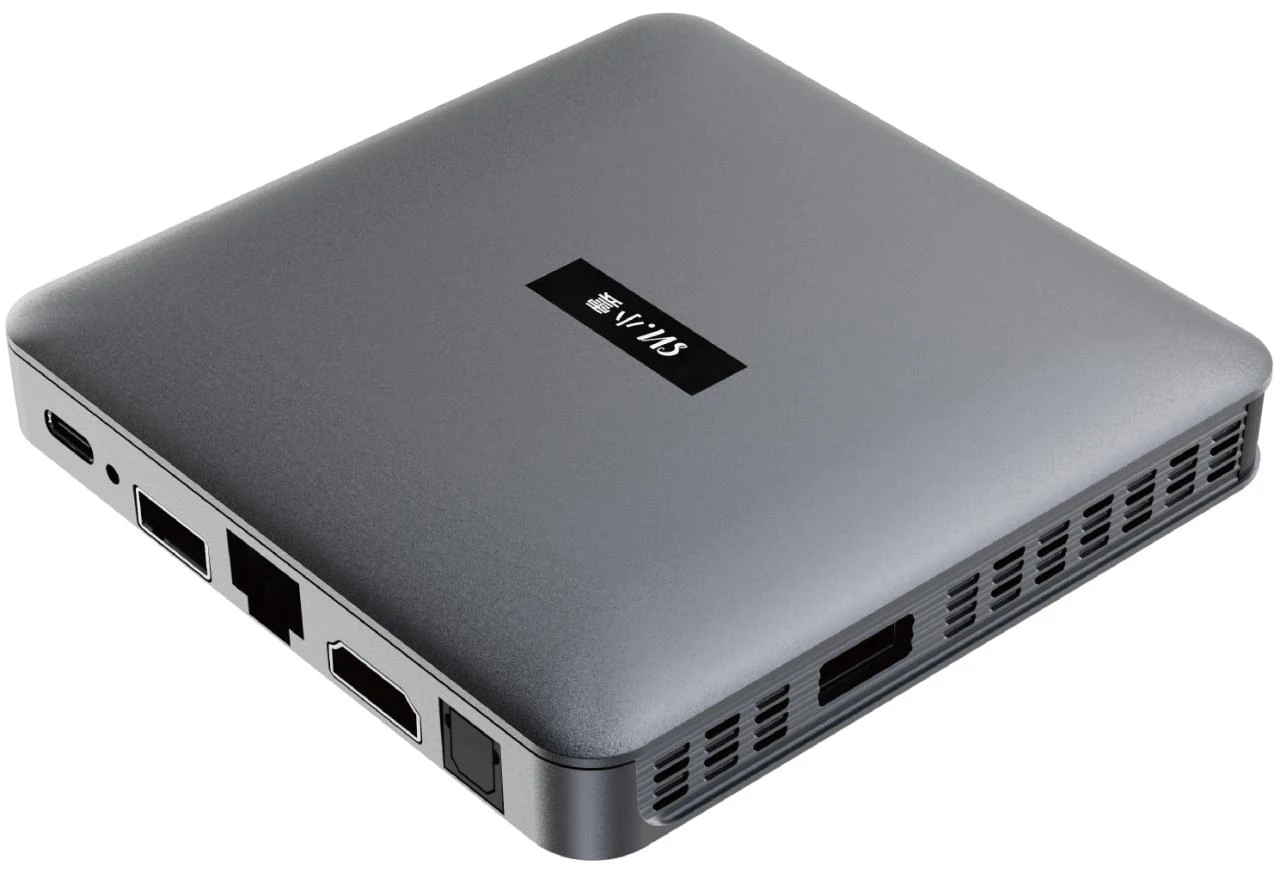
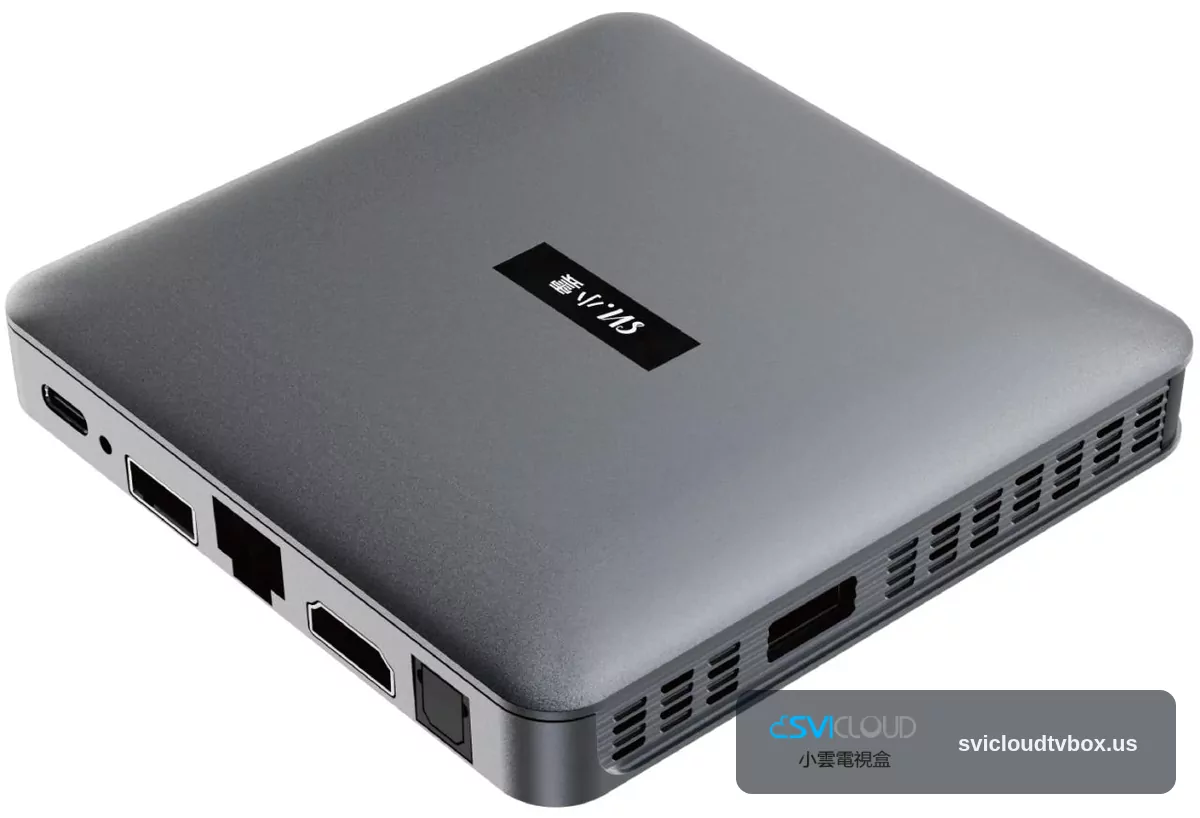
fix(theme): watermark all 15p delivery surfaces

Changed region(s): [[0.5858, 0.8252, 0.9867, 0.978]]

diff --git a/theme/svicloudtvbox-lumen/page-compare.php b/theme/svicloudtvbox-lumen/page-compare.php
@@ -172,7 +172,7 @@ $compare_card_10p_image_html = str_replace('loading="lazy"', 'loading="eager"', 
 $compare_card_10s_image_html = str_replace('loading="lazy"', 'loading="eager"', $compare_card_10s_image_html);
 
 if ($compare_card_15p_image_html === '') {
-    $compare_card_15p_image_html = '<img src="' . esc_url(svic_theme_image_uri('/assets/images/products/svicloud-15p-front.webp')) . '" alt="' . svic_translate_attr('compare.aria.product_alt_15p') . '" loading="eager" decoding="async" />';
+    $compare_card_15p_image_html = '<img src="' . esc_url(svic_theme_image_uri('/assets/images/products/svicloud-15p-primary-ai-watermarked.webp')) . '" alt="' . svic_translate_attr('compare.aria.product_alt_15p') . '" loading="eager" decoding="async" />';
 }
 
 if ($compare_card_10p_image_html === '') {
@@ -246,7 +246,7 @@ $compare_cards = [
 
 $compare_hero_15p_image = function_exists('svic_get_product_image_meta')
     ? svic_get_product_image_meta($hero_product_15p, 0, 'large')
-    : svic_get_theme_image_meta('/assets/images/products/svicloud-15p-front.webp');
+    : svic_get_theme_image_meta('/assets/images/products/svicloud-15p-primary-ai-watermarked.webp');
 $compare_hero_10p_image = function_exists('svic_get_product_image_meta')
     ? svic_get_product_image_meta($hero_product_10p, 0, 'large')
     : svic_get_theme_image_meta('/assets/images/svicloud-hero-product.webp');
@@ -310,7 +310,7 @@ if (!empty($compare_hero_10s_background['url'])) {
         <div class="compare-hero__devices" aria-hidden="true">
           <img
             class="compare-hero__device compare-hero__device--15p"
-            src="<?php echo esc_url($compare_hero_15p_image['url'] ?? svic_theme_image_uri('/assets/images/products/svicloud-15p-front.webp')); ?>"
+            src="<?php echo esc_url($compare_hero_15p_image['url'] ?? svic_theme_image_uri('/assets/images/products/svicloud-15p-primary-ai-watermarked.webp')); ?>"
             alt=""
             loading="eager"
             decoding="async"

diff --git a/theme/svicloudtvbox-lumen/functions.php b/theme/svicloudtvbox-lumen/functions.php
@@ -11,6 +11,24 @@ if (!defined('SVIC_THEME_TEXT_DOMAIN')) {
     define('SVIC_THEME_TEXT_DOMAIN', 'svicloudtvbox-lumen');
 }
 
+if (!function_exists('svic_redirect_legacy_wp_sitemap')) {
+    function svic_redirect_legacy_wp_sitemap(): void {
+        if (!defined('RANK_MATH_VERSION')) {
+            return;
+        }
+
+        $request_path = wp_parse_url((string) ($_SERVER['REQUEST_URI'] ?? ''), PHP_URL_PATH);
+        if ($request_path !== '/wp-sitemap.xml') {
+            return;
+        }
+
+        wp_safe_redirect(home_url('/sitemap_index.xml'), 301, 'SVIC active Rank Math sitemap');
+        exit;
+    }
+
+    add_action('template_redirect', 'svic_redirect_legacy_wp_sitemap', 1);
+}
+
 /**
  * Announcement bar toggle.
  * Set to true to show the out-of-stock (or any) banner across all pages.
@@ -933,7 +951,7 @@ if (!function_exists('svic_static_page_meta_registry')) {
                     'zh' => '比較 US$288 缺貨訂購的小雲 15P（原價 US$379）與 10P+、10S 的硬體、影音支援、價格及銷售狀態。',
                     'zh-cn' => '比较 US$288 缺货订购的小云 15P（原价 US$379）与 10P+、10S 的硬件、影音支持、价格及销售状态。',
                 ],
-                'image'       => '/assets/images/products/svicloud-15p-front.webp',
+                'image'       => '/assets/images/products/svicloud-15p-primary-ai-watermarked.webp',
                 'image_alt'   => [
                     'en' => 'SVICLOUD 15P TV box front view',
                     'zh' => '小雲 15P 電視盒正面',

diff --git a/theme/svicloudtvbox-lumen/woocommerce/single-product.php b/theme/svicloudtvbox-lumen/woocommerce/single-product.php
@@ -81,7 +81,7 @@ while (have_posts()) :
     } elseif (!empty($gallery_entries)) {
         $primary_image_html = '<img class="product-hero-image" src="' . esc_url($gallery_entries[0]['full']) . '" alt="' . esc_attr(get_the_title()) . '" loading="lazy" />';
     } elseif ($is_15p_product) {
-        $primary_image_html = '<img class="product-hero-image" src="' . esc_url(svic_theme_image_uri('/assets/images/products/svicloud-15p-front.webp')) . '" alt="' . esc_attr($localized_product_title) . '" />';
+        $primary_image_html = '<img class="product-hero-image" src="' . esc_url(svic_theme_image_uri('/assets/images/products/svicloud-15p-primary-ai-watermarked.webp')) . '" alt="' . esc_attr($localized_product_title) . '" />';
     } else {
         $primary_image_html = '<img class="product-hero-image" src="' . esc_url(svic_theme_image_uri('/assets/images/svicloud-hero-product.webp')) . '" alt="' . esc_attr(get_the_title()) . '" />';
     }

diff --git a/docs/15p-source-traceability.md b/docs/15p-source-traceability.md
@@ -9,16 +9,16 @@ The 15P hardware and media content is derived from the two read-only source file
[2 lines of base64/hex data omitted]
 | Direct supplier confirmation relayed by site owner, 2026-08-17 | N/A | Confirms that the 15P includes the Kids and Karaoke apps. |
-| Site-owner commerce decision, 2026-08-17 | N/A | Sets U.S. regular price `$379.00`, sale price `$299.00`, and notified backorders; no shipping date was supplied. |
+| Site-owner commerce decision, 2026-08-17 | N/A | Sets U.S. regular price `$379.00`, sale price `$288.00`, and notified backorders; no shipping date was supplied. |
 
-Extraction used the official Anthropic `pdf` and `pptx` skills, PyMuPDF/PDFPlumber, OOXML inspection, and image hashing. The source files were not modified. The parent folder contained 89 media files (85 images and four MP4 videos), but none had an authoritative 15P identity; no image had an exact hash match with the PDF/PPTX assets. The complete parent-folder path/dimension/duration/size/hash/disposition inventory is inspectable in [`docs/15p-parent-media-inventory.md`](15p-parent-media-inventory.md), and all 27 embedded PPTX media parts—with slide mapping, hashes, content risks, and disposition—are listed in [`docs/15p-pptx-media-inventory.md`](15p-pptx-media-inventory.md). Therefore, the three claim-free 15P reference/gallery photos come from PDF page 1 and are stored under descriptive theme filenames; no parent-folder or flattened PPTX media is published. The Shop/pricing marketing creative is an AI-generated derivative grounded in the approved front and angled PDF photos, with layout inspiration from the existing 10P+ card artwork.
+Extraction used the official Anthropic `pdf` and `pptx` skills, PyMuPDF/PDFPlumber, OOXML inspection, and image hashing. The source files were not modified. The parent folder contained 89 media files (85 images and four MP4 videos), but none had an authoritative 15P identity; no image had an exact hash match with the PDF/PPTX assets. The complete parent-folder path/dimension/duration/size/hash/disposition inventory is inspectable in [`docs/15p-parent-media-inventory.md`](15p-parent-media-inventory.md), and all 27 embedded PPTX media parts—with slide mapping, hashes, content risks, and disposition—are listed in [`docs/15p-pptx-media-inventory.md`](15p-pptx-media-inventory.md). Therefore, five watermarked 15P gallery derivatives are delivered under descriptive theme filenames; no unwatermarked source image is delivered, and no unmodified flattened PPTX slide is published. The Shop/pricing marketing creative is an AI-generated derivative grounded in approved product references and carries the same watermark.
 
 ## Canonical product state
 
 - **Product:** SVICLOUD 15P TV Box / 小雲 15P 電視盒 / 小云 15P 电视盒.
 - **Slug:** `svicloud-15p`.
 - **Catalog state:** Published and catalog-visible.
-- **Commerce state:** Regular `$379.00`, sale/effective `$299.00`, managed zero stock, notified backorders allowed, and purchasable. Shipping date not announced.
+- **Commerce state:** Regular `$379.00`, sale/effective `$288.00`, managed zero stock, notified backorders allowed, and purchasable. Shipping date not announced.
 - **Claim boundary:** The PDF/PPTX do not state price, release timing, inventory, shipping, warranty, or returns. Price/backorder state is a site-owner business decision; no 15P-specific shipping-speed, delivery-date, or warranty claim is added.
 - **Primary positioning:** Android 14 TV box with Amlogic S905Y5, 4 GB DDR3 memory, 64 GB eMMC storage, dual-band Wi-Fi 6, Bluetooth 5.4, and 4K HDR/AV1 playback.
 
@@ -69,10 +69,13 @@ All output images are optimized WebP files; source PDF/PPTX files remain externa
 
 | Theme asset | Source | Purpose and alt text |
 |---|---|---|
-| `assets/images/products/svicloud-15p-marketing-v4.webp` | OpenAI Codex built-in `image_gen`, grounded by the approved PDF p.1 front/angled photos and using prior 10P+/15P artwork only as layout direction; exact prompts in `docs/15p-launch/15p-marketing-v4-prompt.md` | Homepage hero, Shop card, homepage pricing card, and Shop social metadata. Alt: `SVICLOUD 15P Android 14 feature graphic`. |
-| `assets/images/products/svicloud-15p-front.webp` | PDF p.1 embedded front product photo | WooCommerce primary image, Compare, PDP, product metadata, and identity reference for generated artwork. Alt: `SVICLOUD 15P TV box front view`. |
-| `assets/images/products/svicloud-15p-angle.webp` | PDF p.1 embedded angled product photo | PDP gallery. Alt: `SVICLOUD 15P TV box angled view showing rear ports`. |
-| `assets/images/products/svicloud-15p-package.webp` | PDF p.1 embedded package-front artwork | PDP gallery. Alt: `SVICLOUD 15P packaging front`. |
+| `assets/images/products/svicloud-15p-marketing-v4.webp` | OpenAI Codex built-in `image_gen`, grounded by approved product references; exact prompts in `docs/15p-launch/15p-marketing-v4-prompt.md` | Watermarked homepage hero, Shop card, pricing card, and social metadata. Alt: `SVICLOUD 15P Android 14 feature graphic`. |
+| `assets/images/products/svicloud-15p-primary-ai-watermarked.webp` | Supplied screenshot-derived AI primary image | Watermarked primary/front image and product metadata. Alt: `SVICLOUD 15P TV Box front view with watermark`. |
+| `assets/images/products/svicloud-15p-front.webp` | PDF p.1 embedded front product photo, watermark derivative | Watermarked fallback/identity image. Alt: `SVICLOUD 15P TV box front view`. |
+| `assets/images/products/svicloud-15p-angle.webp` | PDF p.1 embedded angled product photo, watermark derivative | Watermarked gallery/fallback image. Alt: `SVICLOUD 15P TV box angled view showing rear ports`. |
+| `assets/images/products/svicloud-15p-package.webp` | PDF p.1 embedded package-front artwork, watermark derivative | Watermarked gallery image. Alt: `SVICLOUD 15P packaging front`. |
+| `assets/images/products/svicloud-15p-lifestyle-ai-watermarked.webp` | Cropped approved AI marketing reference | Watermarked lifestyle/AI gallery image. |
+| `assets/images/products/svicloud-15p-lifestyle-ai-2-watermarked.webp` | Cropped approved AI lifestyle reference | Watermarked lifestyle/AI gallery image. |
 
 ## Localized content contract
 
@@ -83,7 +86,7 @@ All output images are optimized WebP files; source PDF/PPTX files remain externa
 - **Lead:** SVICLOUD 15P runs Android 14 on an Amlogic S905Y5 processor with 4 GB DDR3 memory, 64 GB eMMC storage, dual-band Wi-Fi 6, Bluetooth 5.4, and 4K HDR playback.
 - **Feature labels:** `Amlogic S905Y5 + Android 14`; `4 GB DDR3 + 64 GB eMMC`; `Wi-Fi 6 + Bluetooth 5.4`; `4K HDR + AV1 decoding`.
 - **CTA:** Backorder 15P
-- **Availability:** `$299.00` sale / `$379.00` regular; shipping date not announced.
+- **Availability:** `$288.00` sale / `$379.00` regular; shipping date not announced.
 
 ### Traditional Chinese
 
@@ -92,7 +95,7 @@ All output images are optimized WebP files; source PDF/PPTX files remain externa
 - **Lead:** 全新小雲 15P 搭載 Android 14、Amlogic S905Y5 處理器、4 GB DDR3 記憶體、64 GB eMMC 儲存空間、雙頻 Wi-Fi 6、藍牙 5.4 與 4K HDR 播放。
 - **Feature labels:** `Amlogic S905Y5 + Android 14`; `4 GB DDR3 + 64 GB eMMC`; `Wi-Fi 6 + 藍牙 5.4`; `4K HDR + AV1 解碼`.
 - **CTA:** 缺貨訂購 15P
-- **Availability:** 特價 `US$299` / 原價 `US$379`；出貨日期尚未公布。
+- **Availability:** 特價 `US$288` / 原價 `US$379`；出貨日期尚未公布。
 
 ### Simplified Chinese
 
@@ -101,7 +104,7 @@ All output images are optimized WebP files; source PDF/PPTX files remain externa
 - **Lead:** 全新小云 15P 搭载 Android 14、Amlogic S905Y5 处理器、4 GB DDR3 内存、64 GB eMMC 存储空间、双频 Wi-Fi 6、蓝牙 5.4 与 4K HDR 播放。
 - **Feature labels:** `Amlogic S905Y5 + Android 14`; `4 GB DDR3 + 64 GB eMMC`; `Wi-Fi 6 + 蓝牙 5.4`; `4K HDR + AV1 解码`.
 - **CTA:** 缺货订购 15P
-- **Availability:** 特价 `US$299` / 原价 `US$379`；发货日期尚未公布。
+- **Availability:** 特价 `US$288` / 原价 `US$379`；发货日期尚未公布。
 
 ## Rendered-copy map
 
@@ -120,7 +123,7 @@ Labels such as `Confirmed platform`, `Core specifications`, and `At a glance` or
 
 ## Implementation guardrails
 
-1. A local fixture refresh must recreate the supplemental 15P product with regular `379`, sale/effective `299`, managed quantity `0`, backorders `notify`, stock status `onbackorder`, and three source/gallery images.
+1. A local fixture refresh must recreate the supplemental 15P product with regular `379`, sale/effective `288`, managed quantity `0`, backorders `notify`, stock status `onbackorder`, and five watermarked source/gallery images.
 2. Homepage, Shop, Compare, PDP, cart/checkout, metadata, and Product/Offer JSON-LD must agree on the price and BackOrder state.
 3. Normal checkout/payment/shipping-rate/cancellation/return behavior applies, but no 15P-specific shipping speed, dispatch date, delivery date, or warranty promise may be added.
 4. “Coming Soon” remains only inside approved v4 artwork; surrounding UI uses localized Backorder action/status/date-disclaimer copy.

diff --git a/docs/15p-launch/production-gallery-price-update-evidence.md b/docs/15p-launch/production-gallery-price-update-evidence.md
@@ -1,0 +1,41 @@
+# Production 15P gallery and pricing update evidence
+
+Status: corrected retry deployed after the explicit approval below.
+
+## Approval checkpoint
+
+User approval recorded in the goal session:
+
+> I approve the production gallery and $288 pricing update.
+
+The approval covered the five-image watermarked gallery, screenshot-derived AI primary image, `$379` regular / `$288` sale pricing, production verification, and rollback on critical failure.
+
+## Release history
+
+- Preflight commit: `51fb067a11ca455856e674d8cb39fdf9d3757007`
+- Corrected theme commit: `afa372c85d73eb7463dc2eb2b446e4f76e09407f`
+- Final repository commit: `ea3d5b7da51d4aae1a2fb354809e3ba94a6bf0ca`
+- Initial retry failed the social-image gate; product/media/theme rollback completed. Evidence: external Pi backup `rollback-evidence.md`.
+- Corrected retry added explicit 15P social-image metadata and deployed the fully watermarked fallback assets.
+
+## Live state
+
+- Product ID: `1204`, slug `svicloud-15p`
+- State: published, visible, purchasable, regular `$379`, sale/effective `$288`, managed stock `0`, `notify`, `onbackorder`
+- Gallery IDs: `1210`, `1211`, `1212`, `1213`, `1214`
+- Gallery order: screenshot-derived AI primary, angle/rear ports, packaging, AI lifestyle, second AI lifestyle
+- All five production image response bodies match committed local watermarked WebP hashes.
+- Theme remote verification: `212/212` files match.
+
+## Verification
+
+- Production critical localized flows: Chromium/WebKit × Traditional Chinese/Simplified Chinese, 4/4 passed.
+- Production English flows: Chromium/WebKit PDP → add-to-cart → cart → checkout, 2/2 passed.
+- Storefront audit: 36/36 route/viewport checks passed.
+- SEO audit: 24 pages, 77 internal links, 0 issues.
+- Product schema: one `$288.00 USD` BackOrder offer, no delivery-time promise.
+- Social metadata: one unique `og:image` and one unique `twitter:image`, both watermarked primary image.
+- Active sitemap: `/sitemap_index.xml` and all four children HTTP 200; `/wp-sitemap.xml` resolves to the active Rank Math sitemap rather than the homepage.
+- No production offline-verifier orders/customers; no unrelated/private data or infrastructure writes.
+
+The pre-update DB/uploads/remote-theme backups and rollback procedure remain external and hash-verified. No DB/uploads restoration was performed.

diff --git a/docs/15p-pptx-media-inventory.md b/docs/15p-pptx-media-inventory.md
@@ -1,11 +1,11 @@
 # 15P PPTX embedded-media inventory
 
-Inventory of every media part embedded in the read-only `15P PDF.pptx`. Dimensions, sizes, hashes, and slide relationships were extracted from OOXML without modifying the deck. All 27 parts are flattened marketing slides and are excluded from storefront media; only claim-free PDF page-1 photos are shipped.
+Inventory of every media part embedded in the read-only `15P PDF.pptx`. Dimensions, sizes, hashes, and slide relationships were extracted from OOXML without modifying the deck. All 27 original parts remain excluded from storefront media. One background-only crop derived from slide 2 is used as a watermarked lifestyle derivative after embedded marketing copy was removed; no unmodified flattened slide is shipped.
 
 | Embedded path | Slide | Dimensions | Size | SHA-256 | Content / disposition |
 |---|---:|---:|---:|---|---|
[6 lines of base64/hex data omitted]

diff --git a/docs/15p-launch/launch-plan-coverage.md b/docs/15p-launch/launch-plan-coverage.md
@@ -6,7 +6,7 @@
 | Approved commerce decision | `$379` regular / `$288` sale, notified backorders, and no shipping date recorded in source traceability and RPI spec |
 | Existing source-folder media inventory | `docs/15p-parent-media-inventory.md` (85 images + 4 videos, each with disposition) |
 | Embedded PPTX media inventory | `docs/15p-pptx-media-inventory.md` (27 rows, all excluded with reasons) |
-| Optimized assets | Three PDF-derived source/gallery files plus approved v4 marketing artwork under `assets/images/products/` |
+| Optimized assets | Five watermarked gallery derivatives plus watermarked v4 marketing artwork under `assets/images/products/` |
 | Repeatable local product | `scripts/import_public_theme_fixture.php`; exact post-apply invariant in `scripts/sync_public_theme_fixture.py` |
 | Private local content preservation | `scripts/verify_private_fixture_preservation.py` plus verified external recovery point |
 | Homepage / Shop / Compare / PDP | Theme templates and EN/繁/简 locale registries |
@@ -19,4 +19,4 @@
 
 ## Deliberately excluded
 
-Production writes/deployment, Search Console submission, a release or shipping date, 15P-specific shipping-speed/dispatch/delivery/warranty promises, unsupported performance comparisons, and paid-ad activation remain outside this local integration.
+Search Console submission, a release or shipping date, 15P-specific shipping-speed/dispatch/delivery/warranty promises, unsupported performance comparisons, and paid-ad activation remain outside this integration. Production deployment and rollback evidence are recorded in `docs/15p-launch/production-gallery-price-update-evidence.md`.

diff --git a/docs/15p-launch/launch-checklist.md b/docs/15p-launch/launch-checklist.md
@@ -4,9 +4,9 @@
 
 - [x] Supplier PDF/PPTX hashed and parsed read-only
 - [x] Source traceability plus 89-file parent-media inventory (85 images + 4 videos) recorded
-- [x] Three claim-free PDF-derived WebP assets tracked; source PDF/PPTX and flattened marketing slides excluded
+- [x] Five watermarked 15P WebP gallery derivatives tracked; source PDF/PPTX and unwatermarked originals are not delivered
 - [x] Direct supplier confirmation for included Kids and Karaoke apps recorded
-- [x] Approved v4 marketing artwork tracked with exact prompt and safe framing
+- [x] Approved v4 marketing artwork tracked with exact prompt, safe framing, and SVICLOUD + svicloudtvbox.us watermark
 
 ## Commerce activation
 
@@ -22,6 +22,6 @@
 - [x] Private-data preservation passes around the full refresh
 - [x] Final SEO, accessibility, smoke, and visual audits pass with only documented pre-existing failures
 - [x] Post-implementation review has no blocking finding
-- [ ] Approved local commits created; no push/deployment
+- [x] Approved commit history, safety branches, production approval, deployment, rollback, and final evidence recorded; `origin/main` unchanged
 
 Normal checkout/payment/shipping-rate/cancellation/return behavior applies. Do not add a 15P-specific shipping speed, dispatch date, delivery date, or warranty promise without written confirmation and a plan update.

diff --git a/docs/15p-launch/verification-report.md b/docs/15p-launch/verification-report.md
@@ -1,6 +1,6 @@
 # SVICLOUD 15P backorder verification report
 
-Verified against `http://svicloud10p.svic.local` after a complete production-derived public-fixture refresh plus the deterministic local 15P supplement.
+Verified against `http://svicloud10p.svic.local` after a complete production-derived public-fixture refresh plus the deterministic local 15P supplement. Corrected production deployment evidence is recorded in `production-gallery-price-update-evidence.md`.
 
 ## Product invariant
 
@@ -10,7 +10,7 @@ Verified against `http://svicloud10p.svic.local` after a complete production-der
 - Managed stock: enabled, quantity `0`
 - Backorders: `notify`; stock status `onbackorder`
 - Purchasable / on backorder / notification required: `true / true / true`
-- Product images: one primary plus two gallery images; approved v4 marketing artwork remains separate for homepage/Shop cards
+- Product images: exactly five delivered gallery images; primary/front, angle/rear ports, packaging, and two watermarked lifestyle/AI images. Homepage/Shop/metadata artwork is also watermarked.
 - `/product/svicloud-15p/`: HTTP 200 in EN/繁中/简中
 - Product schema: exactly one Product and one `288.00 USD` Offer with `https://schema.org/BackOrder`
 - Offer delivery timing: absent
